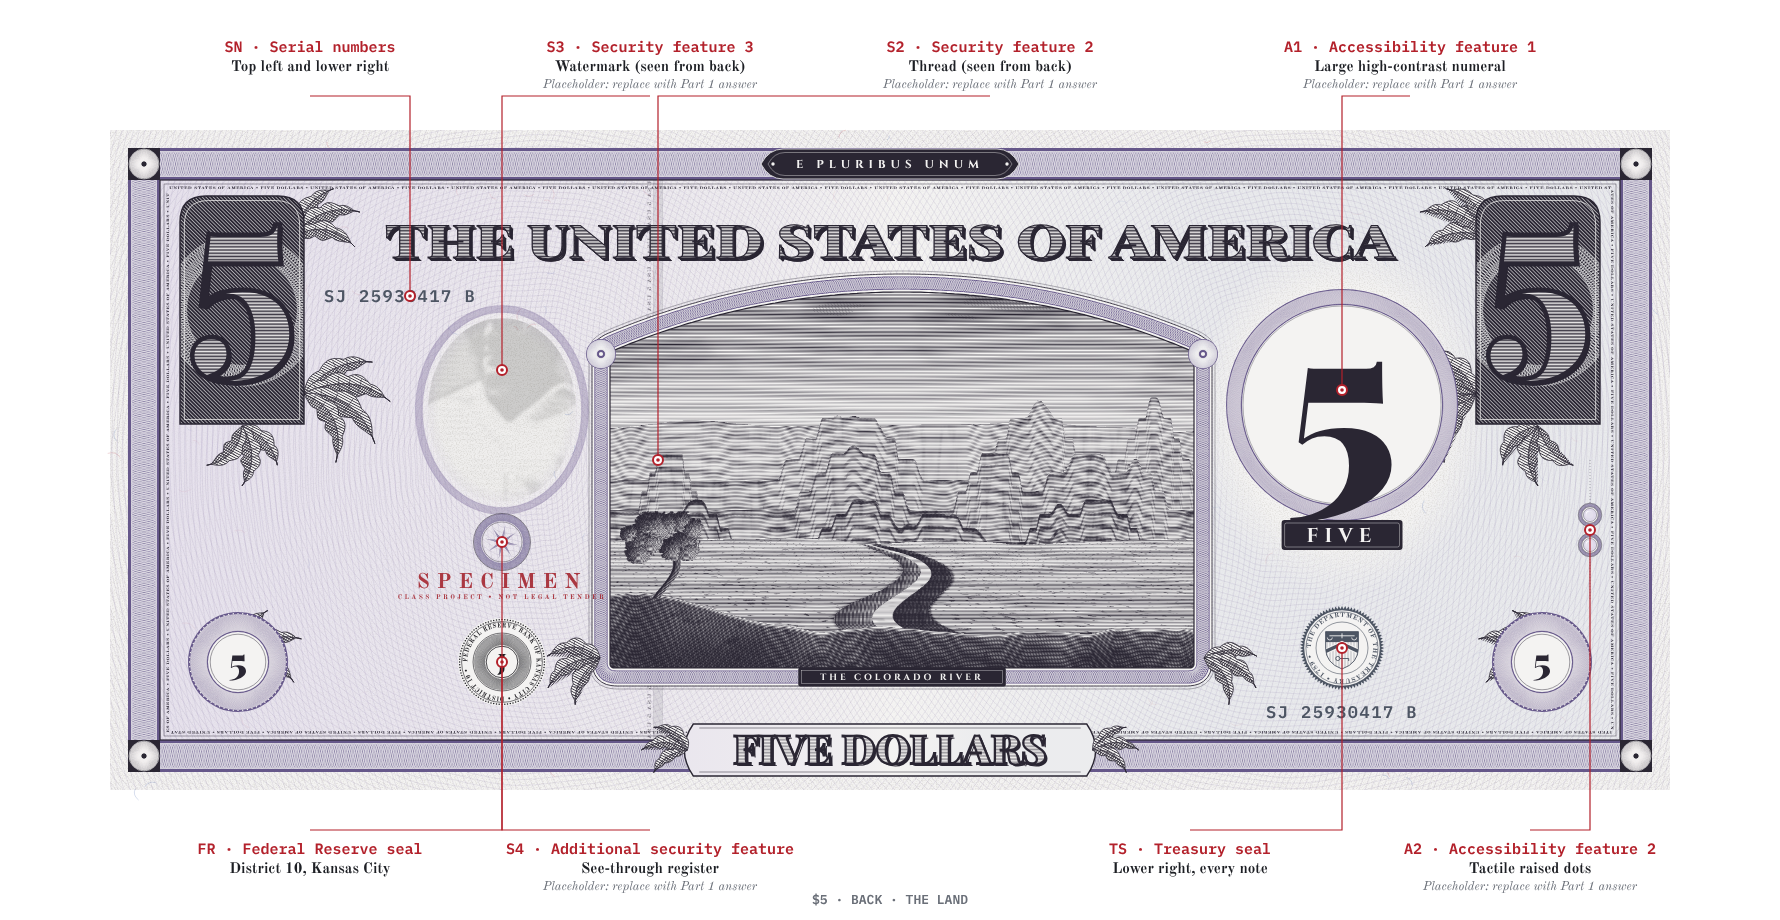
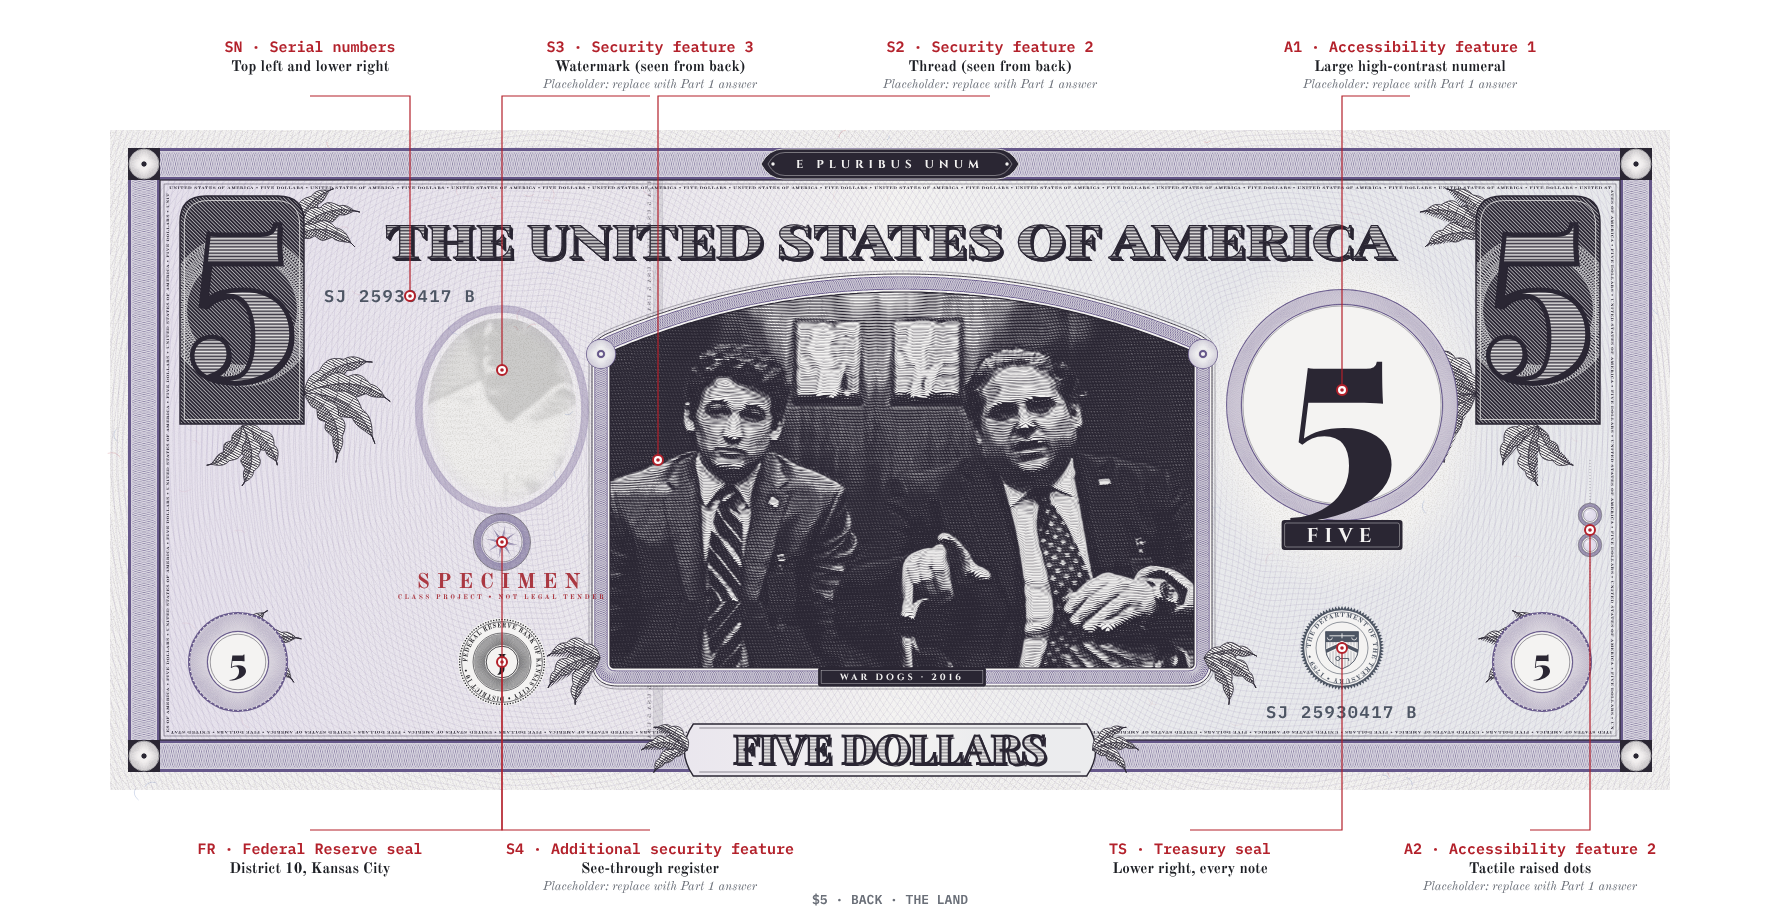
Use the War Dogs boardroom scene on the $5 back
Claude-Session: https://claude.ai/code/session_015KBLhp8b1QN2JqUJfMzhqz

Changed region(s): [[0.3399, 0.3043, 0.6798, 0.7609]]

diff --git a/generator/design/notes.js b/generator/design/notes.js
@@ -9,7 +9,7 @@ const DENOMS = {
        plate: "#2a2633", primary: "#66588a", secondary: "#4d5563", tint1: "#e0daea", tint2: "#e3e5ea", paper: "#f4f3f2",
        pattern: "rings", patternOpts: { gap: 5.5, centers: [[420, 330], [1180, 300]] }, ovi: ["#6a3f1a", "#b98a4e", "#7d8f55", "#2f5e45"],
        sealInk: "#1e1d22", district: 10, letter: "J", city: "KANSAS CITY", serial: "SJ 25930417 B", plateNo: "C 7", check: "J 2",
-       thread: 1012, dots: 2, front: { scene: "five-front", caption: "EFRAIM DIVEROLI \u00b7 WAR DOGS" }, back: { scene: "five-back", caption: "THE COLORADO RIVER" } },
+       thread: 1012, dots: 2, front: { scene: "five-front", caption: "EFRAIM DIVEROLI \u00b7 WAR DOGS" }, back: { scene: "five-back", caption: "WAR DOGS \u00b7 2016" } },
   10: { v: 10, word1: "TEN", words: "TEN DOLLARS", theme: "Innovation",
        plate: "#33231a", primary: "#a05f34", secondary: "#c06a2b", tint1: "#f1dcc6", tint2: "#efe2d2", paper: "#f6f2ea",
        pattern: "sunburst", patternOpts: { center: [780, 380] }, ovi: ["#5a3a14", "#c4954d", "#7f9a5a", "#2f6248"],

diff --git a/generator/portraits/prep.py b/generator/portraits/prep.py
@@ -95,6 +95,7 @@ jobs_src = Image.open(os.path.join(SRC, "jobs.png"))
 outputs = {
     "one-front": oval("washington-bill.png", 341, 163, 63, 81, .7),
     "one-back": scene("delaware.png", (380, 0, 422)),
+    "five-back": scene("wardogs-scene.png", (349, 0, 420), gamma=.75),
     "five-front": person("hill.png", (186, 74, 250)),
     "ten-front": person("jobs.png", (180, 0, 411), not_white=True),
     "hundred-front": person("dicaprio.png", (229, 138, 330), keep_x=(110, 340)),
